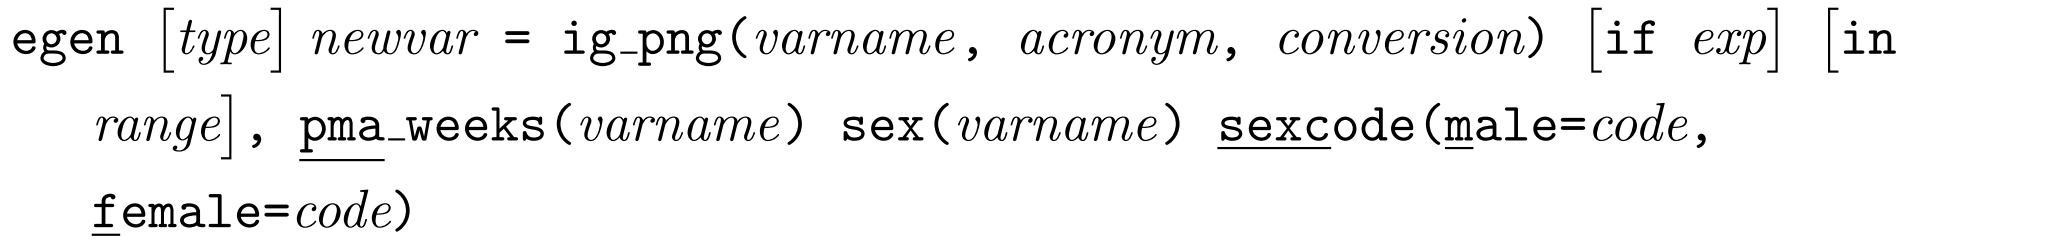
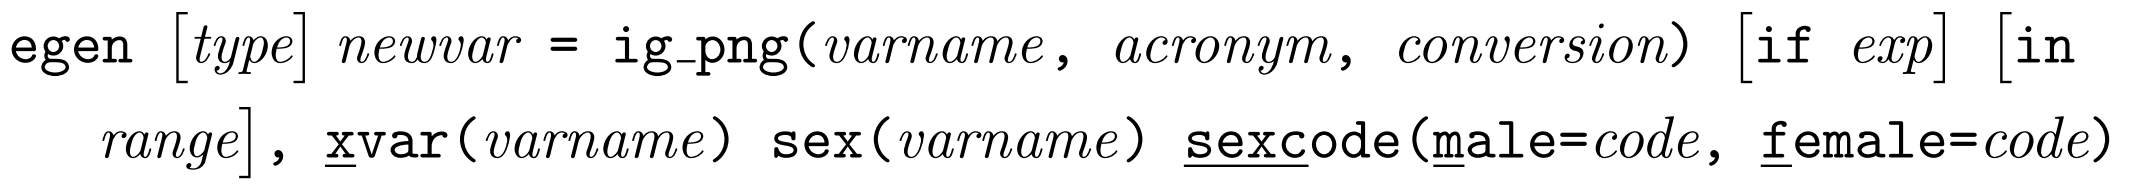
v 0.2.0 --> (1) added weight-for-length standard to INTERGROWTH-21st postnatal growth standards suite; (2) updated test suite; (3) updated documentation with better linkage/reflection of move to xvar() arg in ig_png()

diff --git a/README.md b/README.md
@@ -6,19 +6,20 @@
 ## About
 Produced as part of the Guidance for International Growth Standards project, 
 `gigs` provides a single, simple interface for working with the WHO Child Growth
-Standards and outputs from the INTERGROWTH-21<sup>st</sup> project. You will find functions
-for converting between anthropometric measures (e.g. weight or length) to 
-z-scores and percentiles, and the inverse. Also included are functions for 
-classifying newborn and infant growth according to DHS guidelines.
+Standards and outputs from the INTERGROWTH-21<sup>st</sup> project. You will 
+find functions for converting between anthropometric measures (e.g. weight or 
+length) to z-scores and percentiles, and the inverse. Also included are 
+functions for classifying newborn and infant growth according to 
+literature-based cut-offs.
 
 ## Installation
-You can install `stata-gain` from GitHub using the 
+You can install `gigs-stata` from GitHub using the 
 [`github`](https://haghish.github.io/github/) module for Stata:
 ```stata
 . github install lshtm-gigs/gigs-stata
 ```
 
-Or you can install it directly from the SSC using `net search`:
+Or you can install it directly from SSC using `net install`:
 ```stata
 . net install gigs
 ```
@@ -48,11 +49,12 @@ Or you can install it directly from the SSC using `net search`:
   Component standards
   </summary>
   
-  | Acronym | Description                | Unit | `pma_weeks()` range   |
+  | Acronym | Description                | Unit | `xvar()` range        |
   |---------|----------------------------|------|-----------------------|
   | `wfa`   | weight-for-age             | kg   | 27 to <64 exact weeks |
   | `lfa`   | length-for-age             | cm   | 27 to <64 exact weeks |
   | `hcfa`  | head circumference-for-age | cm   | 27 to <64 exact weeks |
+  | `wfl`   | weight-for-length          | kg   | 35 to 65 cm           |
 
   </details>
 - `who_gs` - WHO Child Growth Standards for term infants
@@ -90,7 +92,7 @@ Standards.
 
 ![](./readme/readme_ignbs.png)
 
-### INTERGROWTH-21<sup>st</sup> postnatal growth standards
+### INTERGROWTH-21<sup>st</sup> Postnatal Growth standards
 This function can be used to convert between measurements and 
 z-scores/percentiles in each of the INTERGROWTH-21<sup>st</sup> Postnatal 
 Growth of Preterm Infants Standards.
